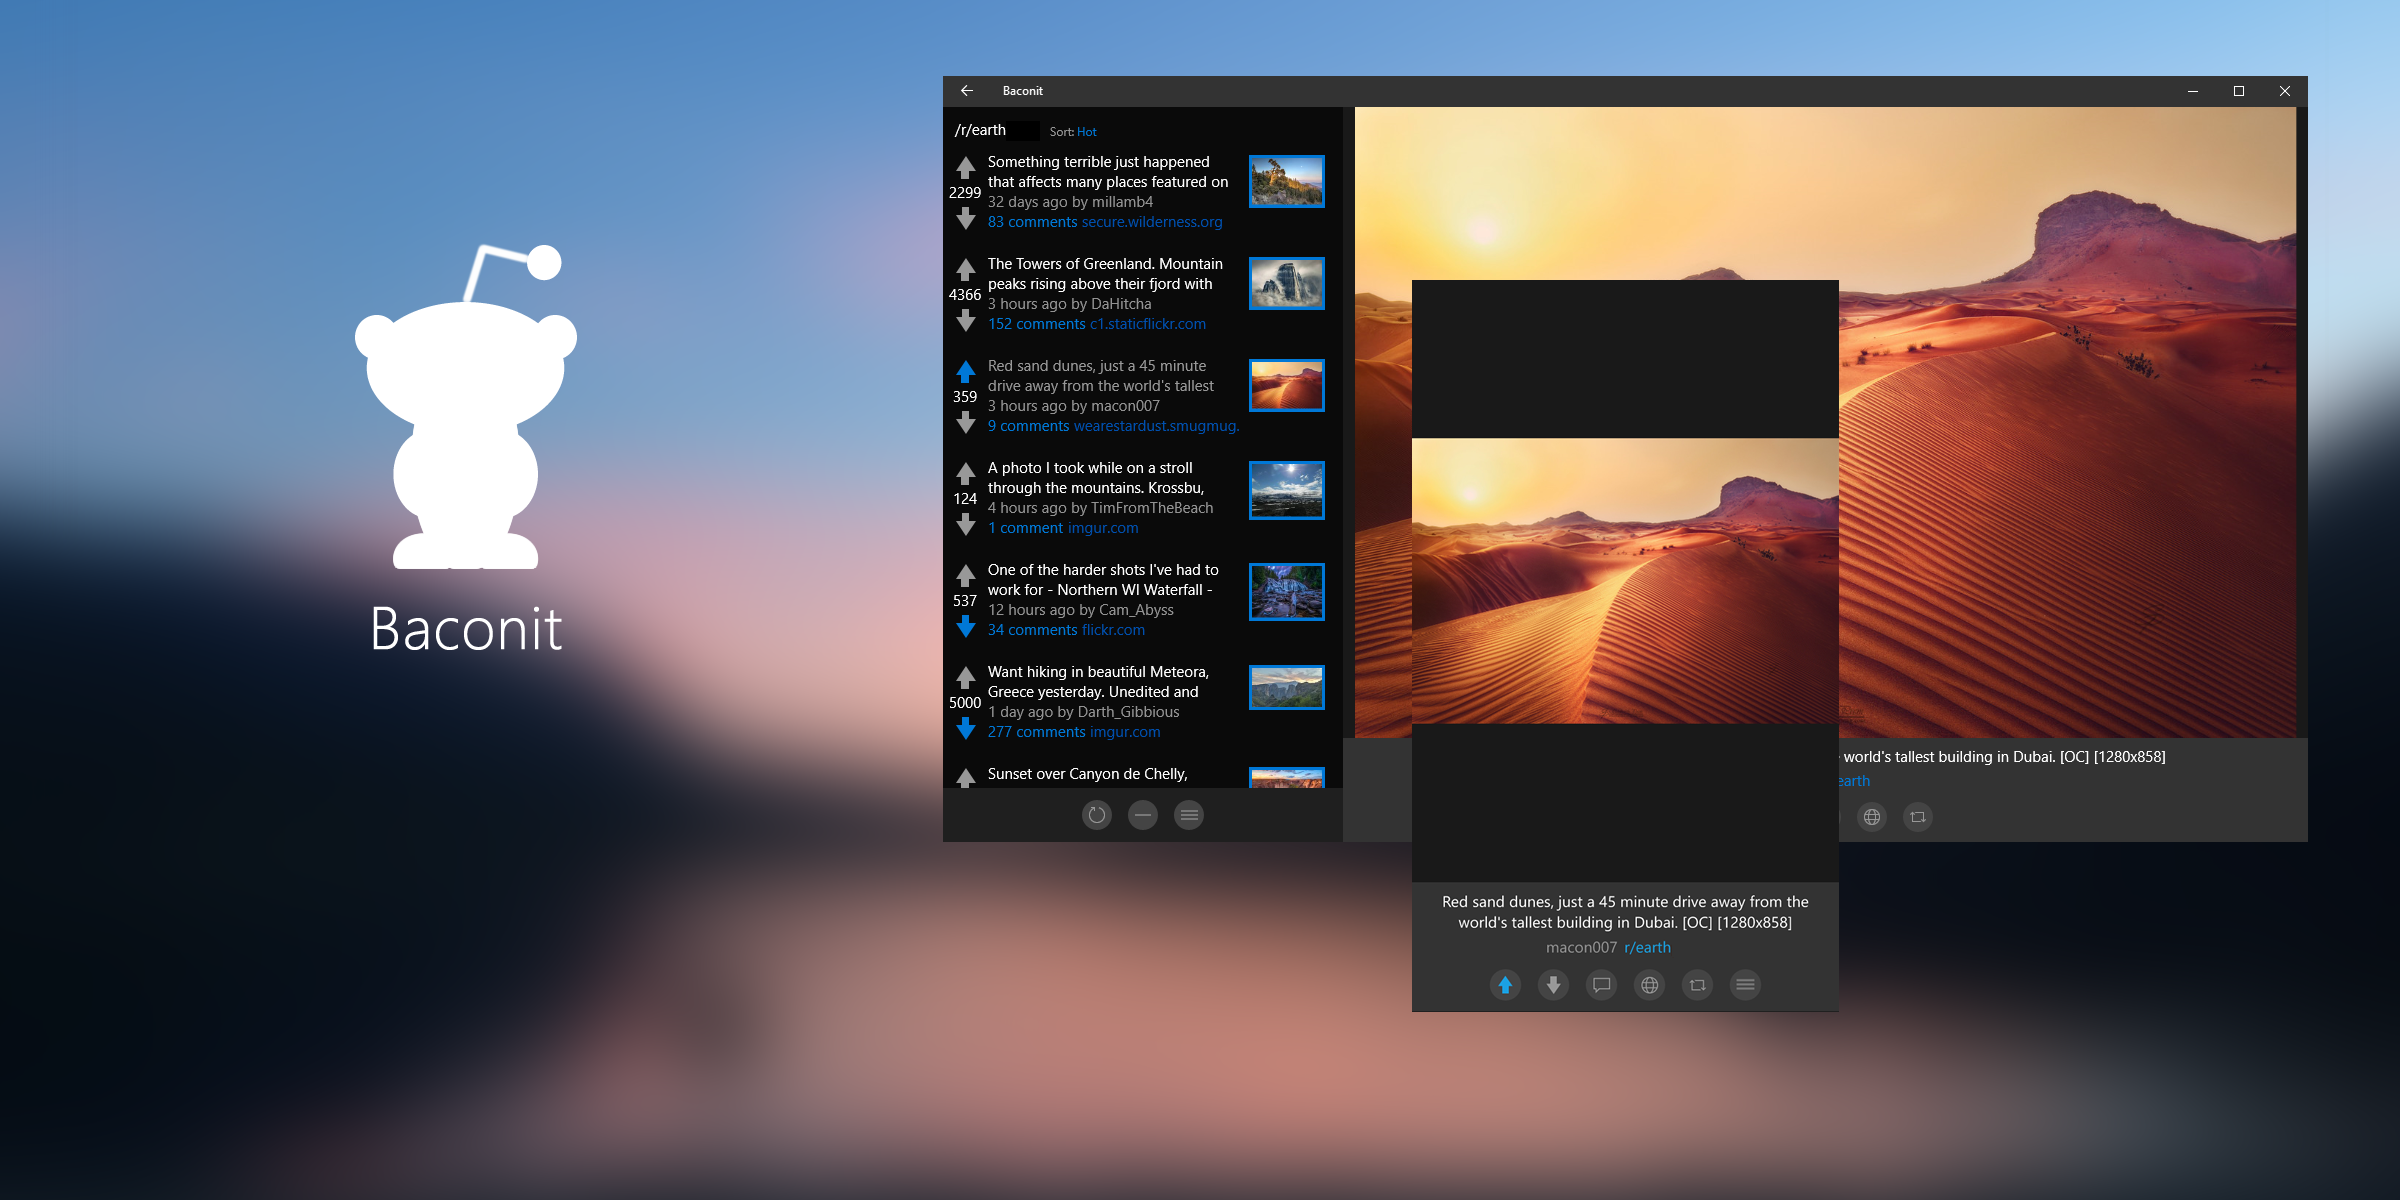
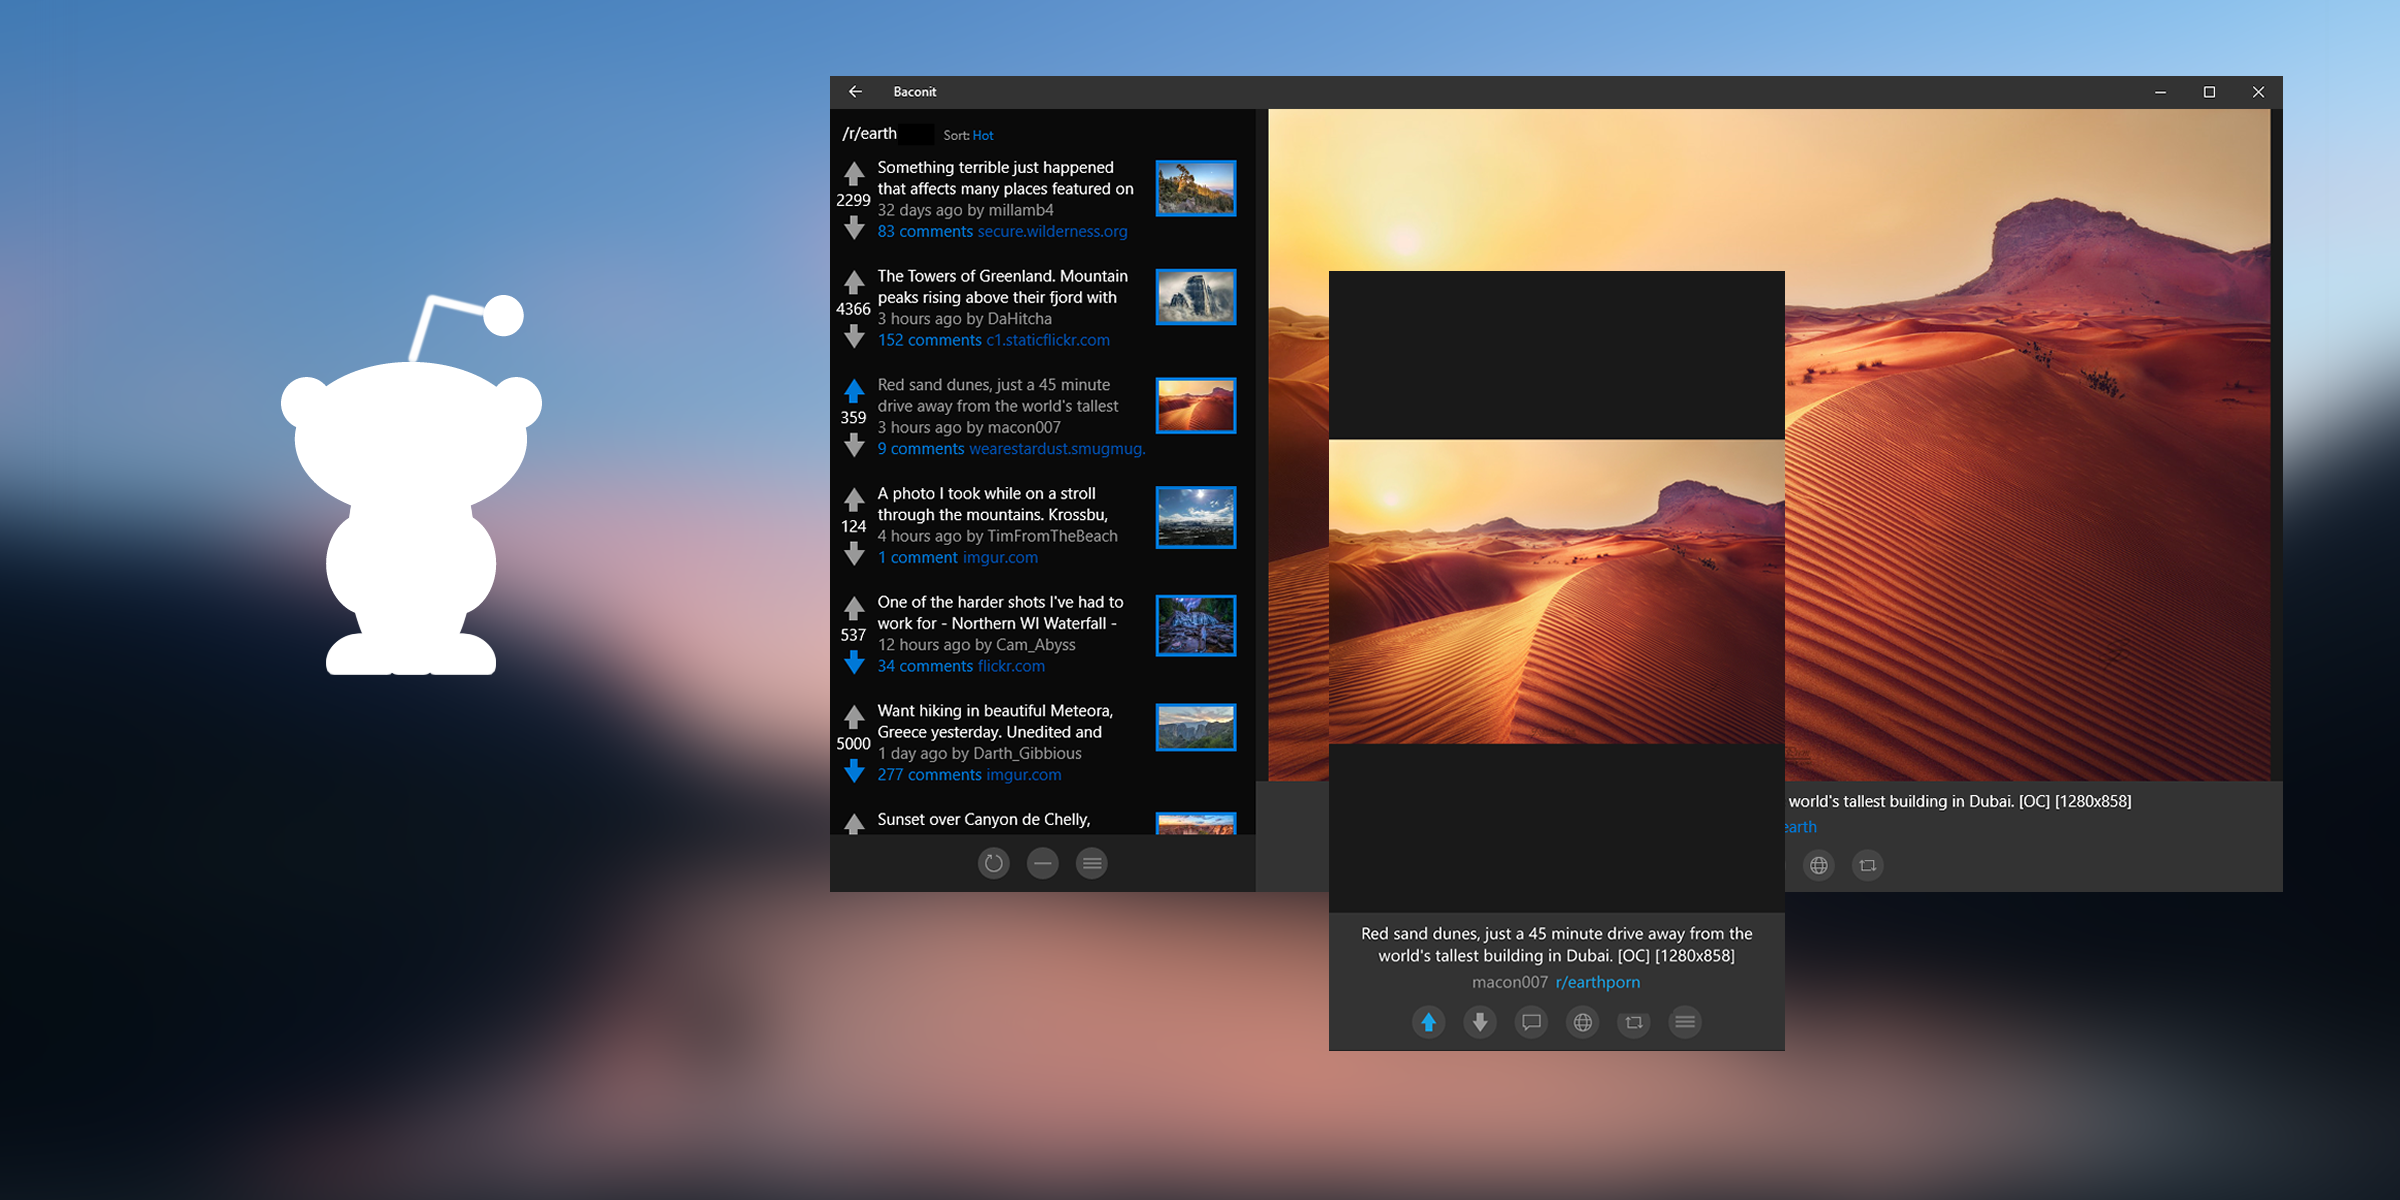
I am a bad person. Fixing a build break. Updating the store promo images. Making a new package.

Changed region(s): [[0.3438, 0.0617, 0.9688, 0.8942], [0.0938, 0.185, 0.25, 0.5858], [0.2188, 0.37, 0.25, 0.4008]]

diff --git a/Baconit/Panels/SubredditPanel.xaml.cs b/Baconit/Panels/SubredditPanel.xaml.cs
@@ -470,6 +470,11 @@ namespace Baconit.Panels
             App.BaconMan.TelemetryMan.ReportEvent(this, "CopyLinkTapped");
         }
 
+        private void SubredditHeader_Tapped(object sender, TappedRoutedEventArgs e)
+        {
+            m_host.ToggleMenu(true);
+        }
+
         #endregion
 
         #region EndlessScrollingLogic
